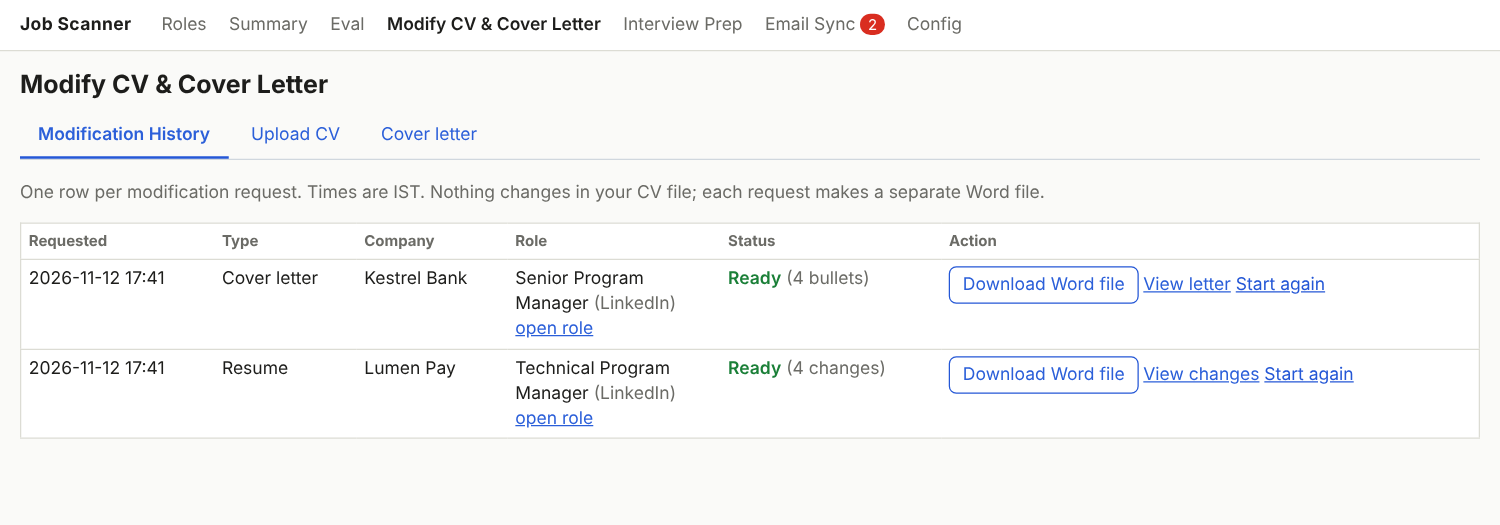
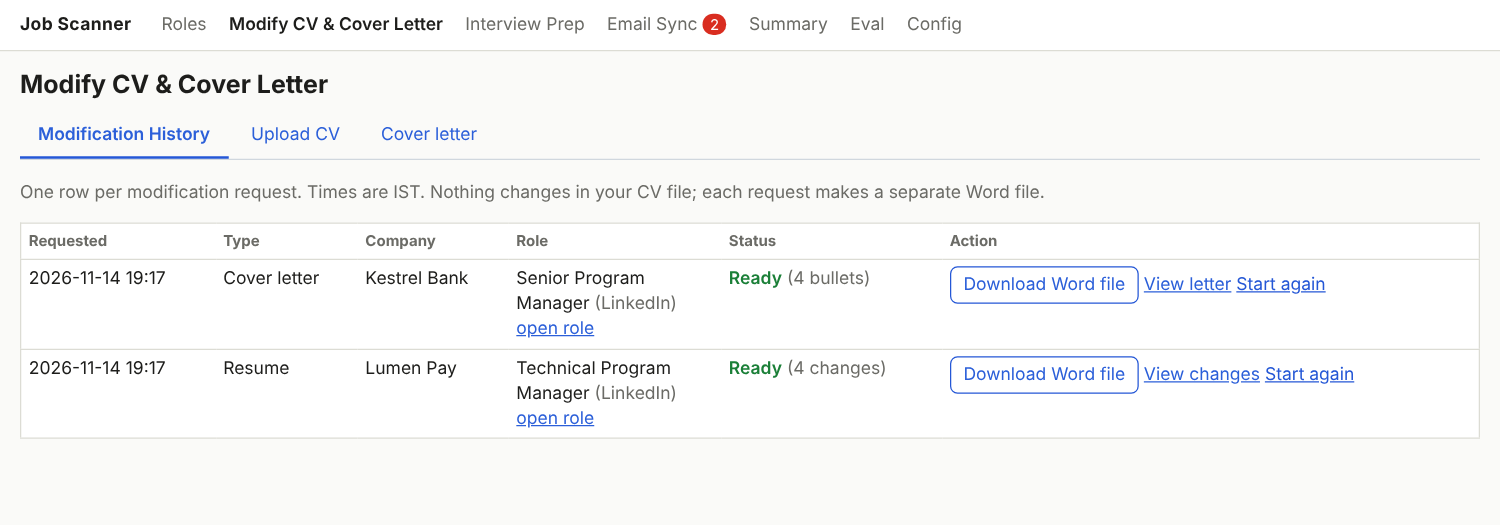
Restore README screenshots and doc links, and the Langfuse requirements section (lost in an earlier overwrite); retake screenshots with the new tab order
Claude-Session: https://claude.ai/code/session_01578PnPC5BjXZZ6Bpa7Dv9o

diff --git a/docs/REQUIREMENTS.md b/docs/REQUIREMENTS.md
@@ -979,7 +979,7 @@ M = Must-haves allowed missing (Config, default 2).
 - A maximum-years filter in the Fit filters (a role asking 20+ years still passes today).
 - Batching several roles in one call.
 
-## Round 16: AI call log and Langfuse push (built; the live Langfuse part is not yet tested against Langfuse)
+## Round 16: AI call log and Langfuse push (built; first live push confirmed on Langfuse Cloud, Nov 2026)
 
 Two options, built in this order. Option 1 needs no outside service. Option 2 is opt-in and off by default. Agreed: default 4 calls a minute, one wait-and-retry on a rate-limit error in batch runs only (not on the single-role Score button, because the app serves one request at a time and a minute's wait would freeze it), and no description text sent to Langfuse by default.
 
@@ -1042,6 +1042,34 @@ Two options, built in this order. Option 1 needs no outside service. Option 2 is
 **Privacy:** Langfuse is a third party. With the defaults, only labels, titles, companies, numbers and your ratings leave your computer.
 
 **Not included:** live per-call tracing, Phoenix, trajectory and convergence measures (the scanner has no agent loop to measure), tailoring calls, and sending the CV.
+
+### Ratings sent as scores (Langfuse)
+Two numeric scores (0 or 1) are attached to a role's scoring trace.
+
+**`human_rating`: what you rated**
+- 1 = you rated the role Good.
+- 0 = you rated the role Poor.
+- Sent for every rated role that has a sent trace.
+
+**`agrees_with_ai`: did you and the AI band agree**
+
+| You rated | AI band | Value |
+|---|---|---|
+| Good | Good | 1 (agree) |
+| Poor | Bad | 1 (agree) |
+| Good | Bad | 0 (disagree) |
+| Poor | Good | 0 (disagree) |
+| Either | Partial | No score. The trace and `human_rating` are still sent. |
+
+**Rules**
+- The name is fixed. The outcome is in the Value and Comment columns, for example "You rated it Good; the AI said Bad". One name keeps the average value equal to your agreement rate.
+- A rating needs a role with a current AI score and a sent trace. No AI score, or only failed calls, means nothing is sent for that role. It is sent on a later push once the role is scored.
+- A score is sent again only if your rating or the AI band changes.
+- Timestamps on scores are the time they were sent, not the time you rated.
+
+**Where to look in Langfuse:** Evaluation, Scores. Or the Tracing search bar, for example `scores.agrees_with_ai:0` to list disagreements.
+
+**Errors:** a failed call is sent as a trace with the error text (300 characters) as its status message and the HTTP status as metadata `http_status`.
 
 ### Key questions discussed
 - **What does "104 traces" mean after `jobscan push-traces`?** 104 AI calls, not 104 roles. Each call is one trace, and the log counts every call: failed ones (the 429 and 400 errors), re-scores, and the retry of an unreadable reply. Roles with a score are on the Eval tab ("Roles AI-scored"); calls are in its "AI calls" section.

diff --git a/README.md b/README.md
@@ -15,6 +15,7 @@ your own computer.
 - **Updates statuses:** reads your Gmail for rejections, interview invites and closures, and
   proposes status changes.
 - **Tracks everything:** status, date applied, contact and comments for every role.
+- **Practises interviews:** speak your answers to questions written from your CV and a role, then get scored feedback on what you said and how you said it.
 - **Tracks follow-ups:** mark a role as needing a follow-up with a recruiter or hiring manager,
   set the next date, and filter for what is due, upcoming or overdue. No key needed.
 
@@ -24,8 +25,37 @@ your own computer.
 - **Summary:** roles per day and where they stand.
 - **Eval:** compares the AI's rating with your own 👍 and 👎 on roles.
 - **Manage CV:** upload your CV and cover letter template; History lists tailored documents.
+- **Interview Prep:** a spoken practice interview on a role you track, a general role or your own questions, with feedback and Past History.
 - **Email Sync:** status changes found in your mail, waiting for review or applied.
 - **Config:** titles, filters, scan speed, the company list for Company sites and other settings.
+
+## Screenshots
+
+All data below is made up.
+
+**Roles** with the AI fit rating and a Practice interview button on every row.
+
+![Roles list](docs/screenshots/roles.png)
+
+**Modify CV & Cover Letter** keeps one row per request, with the Word file, the changes and a Start again button.
+
+![Modification History](docs/screenshots/cv-history.png)
+
+**Email Sync** proposes status changes from your mail. Clear ones apply by themselves. The rest wait for Accept or Discard.
+
+![Email Sync](docs/screenshots/email-sync.png)
+
+**Interview Prep:** pick a role you track, a general role or your own questions.
+
+![Interview Prep start](docs/screenshots/interview-start.png)
+
+**Feedback:** an AI rating of each answer plus measured speech scores (pace, filler words and more).
+
+![Interview feedback](docs/screenshots/interview-feedback.png)
+
+**Past History** keeps every interview and lets you finish or retry one.
+
+![Past History](docs/screenshots/interview-history.png)
 
 ## Get started
 
@@ -125,7 +155,9 @@ read -s MISTRAL_API_KEY && export MISTRAL_API_KEY   # paste the key, press Enter
 ## More detail
 
 - Full requirements and decisions: `docs/REQUIREMENTS.md`.
+- System design: `docs/HIGH_LEVEL_DESIGN.md`.
 - Email Sync logic, flowcharts and states: `docs/EMAIL_SYNC_REQUIREMENTS.md`.
+- Interview Prep: `docs/INTERVIEW_PREP_REQUIREMENTS.md` (rules) and `docs/INTERVIEW_PREP_AI_FLOW.md` (what each AI model does).
 - Commands (all start with `jobscan`):
   - `serve`: open the app
   - `scan`: fetch LinkedIn roles
